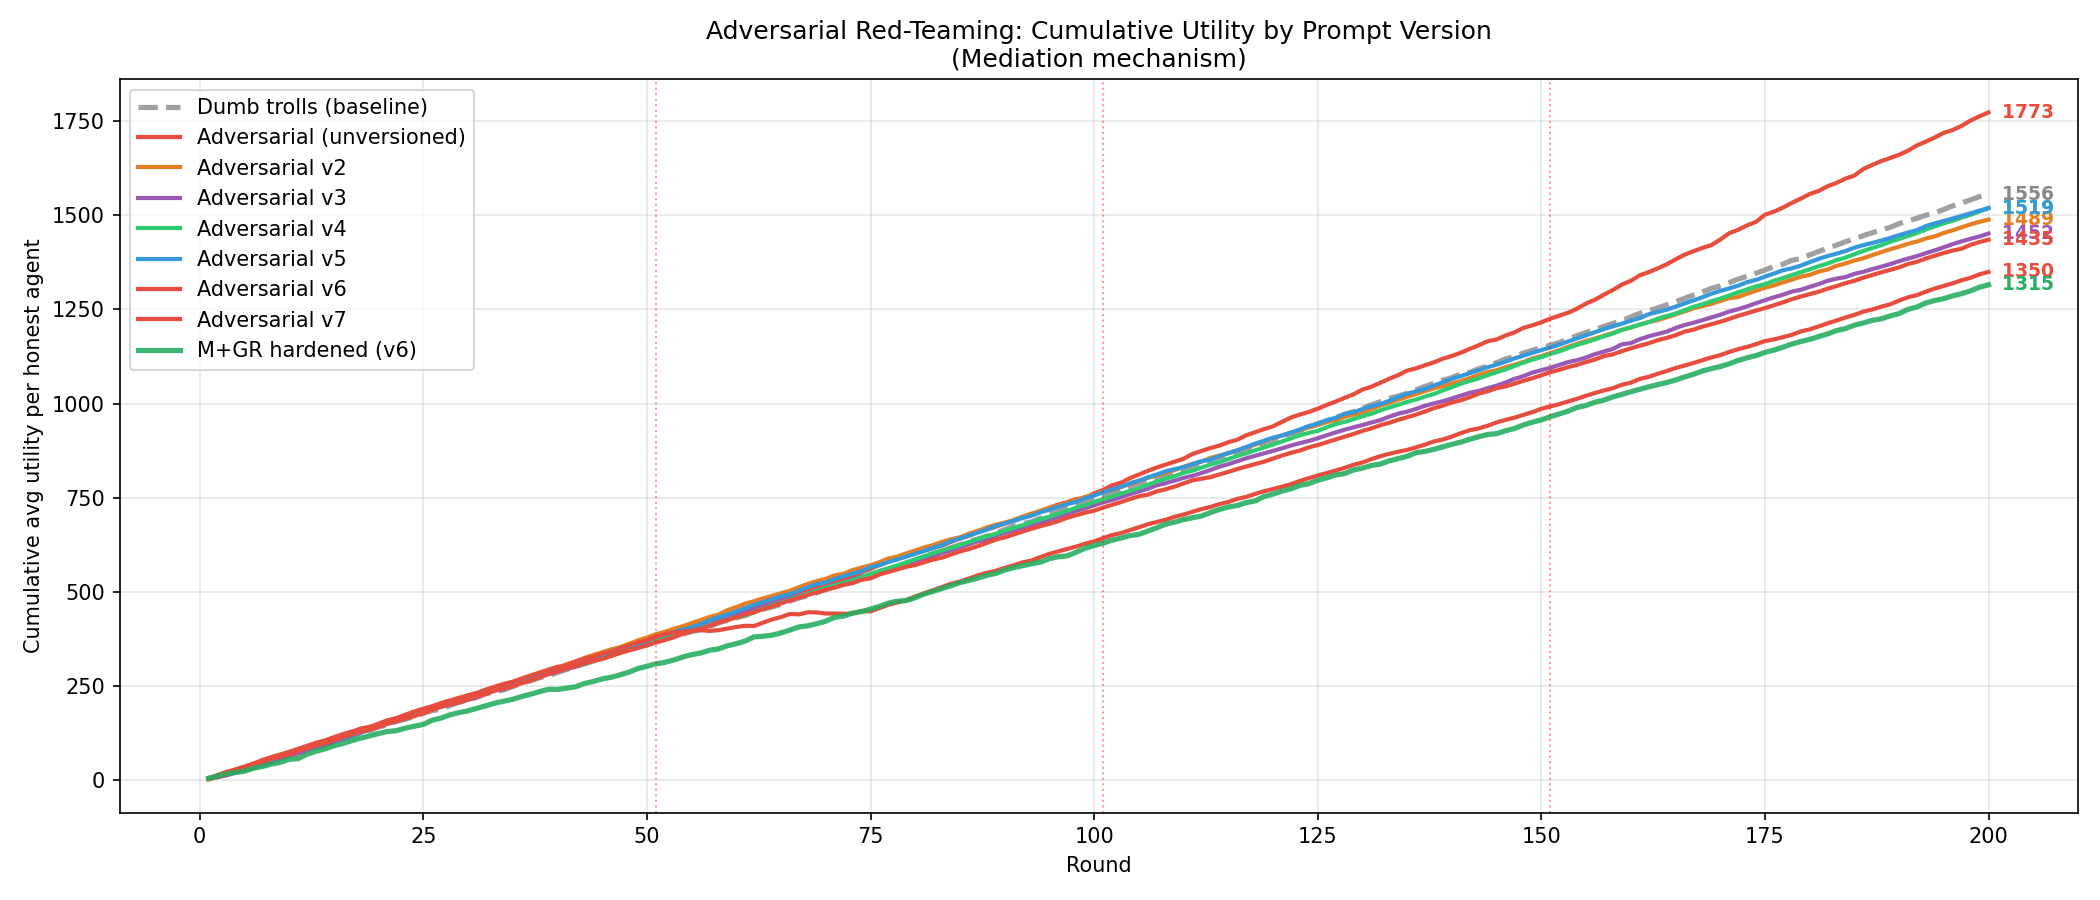
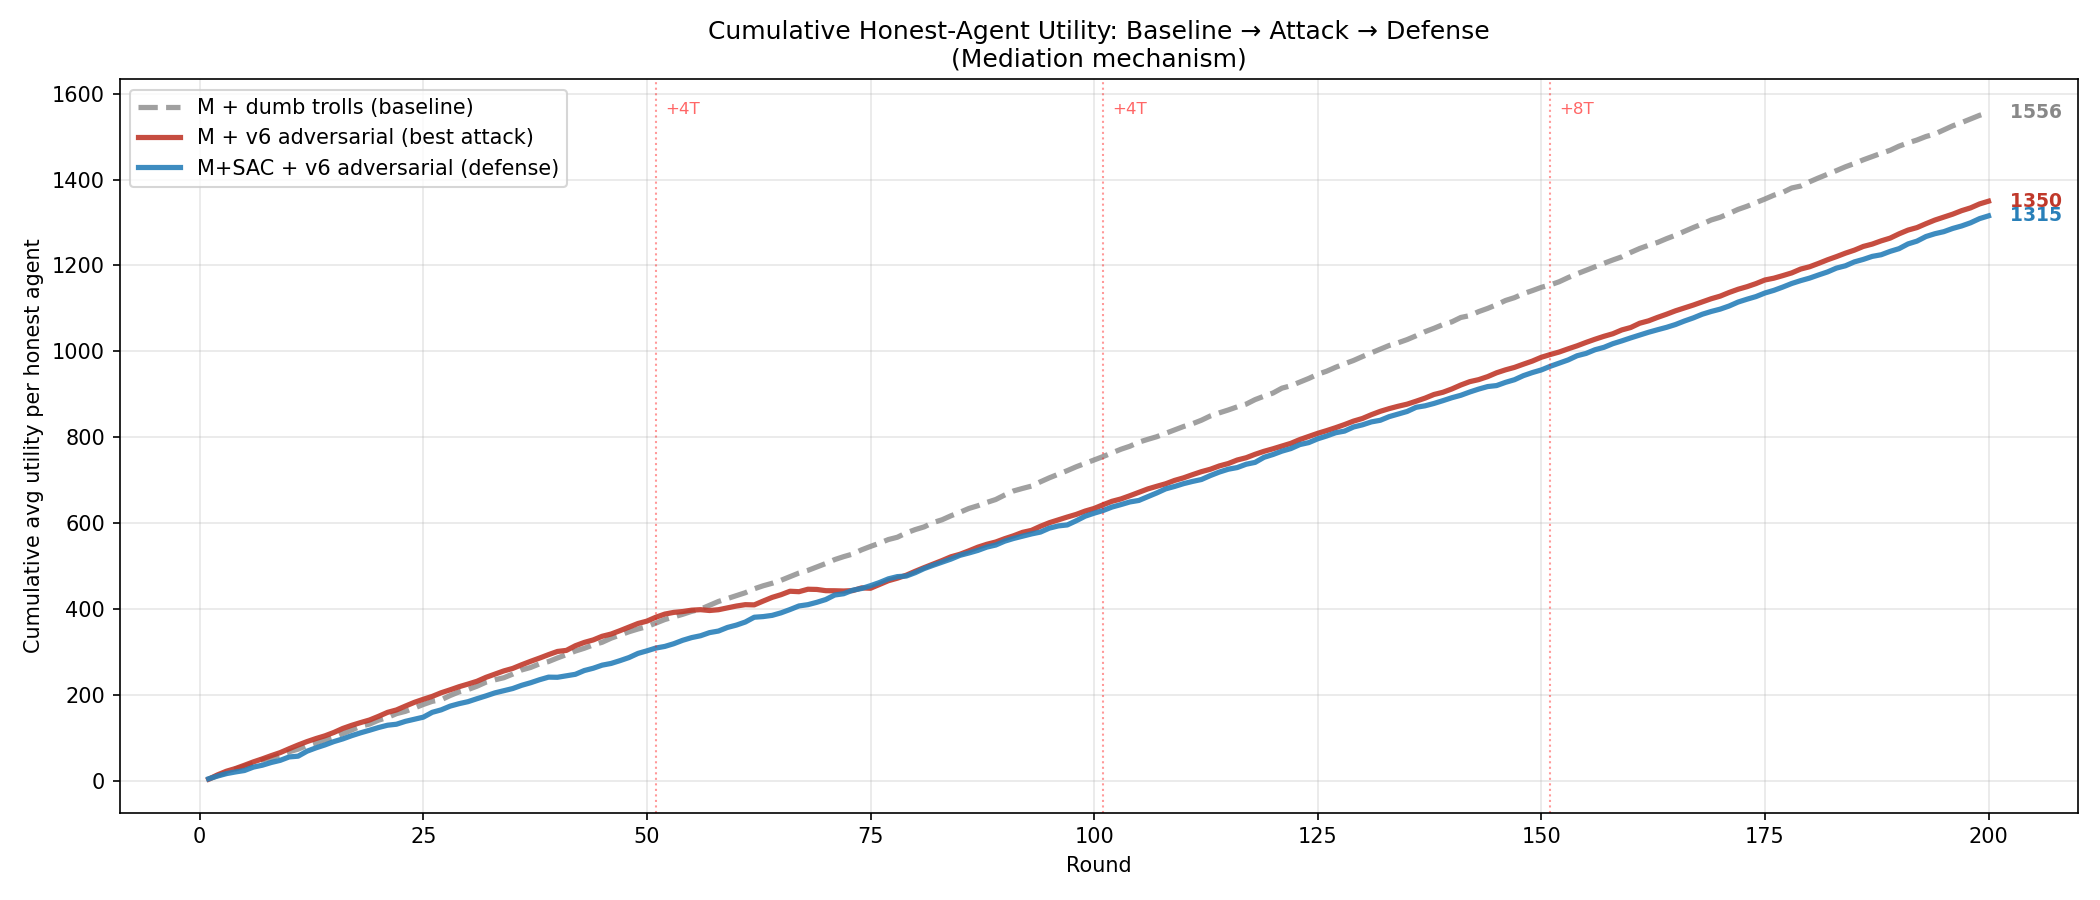
Simplify adversarial plots to 3-line story: baseline → attack → defense
Drop v1-v5 lines (cluttered, v1 was broken, v2-v5 clustered together).
Show only dumb trolls (grey dashed), v6 (red), and M+SAC (blue).
Revote table now shows M+v6 and M+SAC+v6 only. Plot file sizes reduced
~50% from fewer lines.

diff --git a/simulation/analysis/adversarial_plots.py b/simulation/analysis/adversarial_plots.py
@@ -1,7 +1,7 @@
 """Adversarial red-teaming comparison plots.
 
-Overlays dumb trolls (baseline) with each adversarial version (v1, v2, ...)
-on the same chart so you can see how each prompt iteration degrades utility.
+Three-line story: dumb trolls (baseline) → v6 (best attack) → M+SAC (defense).
+Keeps revote outcomes table and mediation utilisation chart.
 """
 from __future__ import annotations
 import json
@@ -60,112 +60,81 @@ def _cumulative_trajectory(per_round: list[float]) -> list[float]:
     return cum
 
 
-def _discover_versions() -> list[str]:
-    """Find all adversarial version tags from data files (e.g. M_tprog_adv_v1_run_00.json -> 'v1')."""
-    versions = set()
-    for f in config.DATA_DIR.glob("M_tprog_adv_*_run_*.json"):
-        name = f.stem
-        parts = name.split("_tprog_adv_")[1]
-        version = parts.split("_run_")[0]
-        versions.add(version)
-    # Also check for legacy _tprog_smart files (pre-versioning)
-    if list(config.DATA_DIR.glob("M_tprog_smart_run_*.json")):
-        versions.add("smart")
-    return sorted(versions)
+def _smooth(data: list[float], window: int = 5) -> np.ndarray:
+    """Apply rolling average, preserving edges."""
+    if len(data) < window:
+        return np.array(data)
+    smoothed = np.convolve(data, np.ones(window) / window, mode="same")
+    for i in range(min(2, len(data))):
+        smoothed[i] = data[i]
+    for i in range(1, min(3, len(data))):
+        smoothed[-i] = data[-i]
+    return smoothed
+
+
+def _add_injection_markers(ax, y_pos: float | None = None):
+    """Add troll injection vertical lines and labels."""
+    for inject_round, label in [(51, "+4 trolls"), (101, "+4 trolls"), (151, "+8 trolls")]:
+        ax.axvline(inject_round, color="red", linestyle=":", alpha=0.4, linewidth=1)
+    if y_pos is None:
+        y_pos = ax.get_ylim()[1] * 0.95
+    ax.text(52, y_pos, "+4T", fontsize=8, color="red", alpha=0.6)
+    ax.text(102, y_pos, "+4T", fontsize=8, color="red", alpha=0.6)
+    ax.text(152, y_pos, "+8T", fontsize=8, color="red", alpha=0.6)
+
+
+# --- Colors for the 3-line story ---
+CLR_DUMB = "#888888"
+CLR_V6 = "#c0392b"
+CLR_SAC = "#2980b9"
 
 
 def plot_adversarial_comparison(save: bool = True) -> None:
-    """Generate comparison plots: dumb trolls vs each adversarial version."""
+    """Generate comparison plots: dumb trolls vs v6 vs M+SAC."""
     out_dir = _get_out_dir()
-    versions = _discover_versions()
 
-    if not versions:
-        print("No adversarial run data found. Run with --smart-trolls --adv-version v1 first.")
+    # Load the three datasets
+    dumb_runs = _load_runs("M_tprog_run_*.json")
+    v6_runs = _load_runs("M_tprog_adv_v6_run_*.json")
+    sac_runs = _load_runs("RM_tprog_adv_v6_run_*.json")
+
+    dumb_pr = _utility_trajectory(dumb_runs)
+    v6_pr = _utility_trajectory(v6_runs)
+    sac_pr = _utility_trajectory(sac_runs)
+
+    if not dumb_pr and not v6_pr:
+        print("No adversarial run data found.")
         return
 
-    print(f"Found adversarial versions: {versions}")
-
-    # --- Colors ---
-    base_color = "#888888"
-    defense_color = "#27ae60"
-    version_colors = {
-        "smart": "#e74c3c",
-        "v1": "#e74c3c",
-        "v2": "#e67e22",
-        "v3": "#9b59b6",
-        "v4": "#2ecc71",
-        "v5": "#3498db",
-    }
-
-    # --- Load baseline (dumb trolls) ---
-    dumb_runs = _load_runs("M_tprog_run_*.json")
-    dumb_per_round = _utility_trajectory(dumb_runs)
-    dumb_cum = _cumulative_trajectory(dumb_per_round)
-
-    # --- Load hardened defense (RM) under v6 ---
-    rm_runs = _load_runs("RM_tprog_adv_v6_run_*.json")
-    rm_per_round = _utility_trajectory(rm_runs)
-    rm_cum = _cumulative_trajectory(rm_per_round)
-
-    # --- Load each adversarial version ---
-    adv_data = {}
-    for v in versions:
-        if v == "smart":
-            runs = _load_runs("M_tprog_smart_run_*.json")
-        else:
-            runs = _load_runs(f"M_tprog_adv_{v}_run_*.json")
-        if runs:
-            per_round = _utility_trajectory(runs)
-            adv_data[v] = {
-                "per_round": per_round,
-                "cumulative": _cumulative_trajectory(per_round),
-                "runs": runs,
-            }
+    print(f"Loaded: dumb={len(dumb_runs)} runs, v6={len(v6_runs)} runs, M+SAC={len(sac_runs)} runs")
 
     # ============================================================
-    # Plot 1: Per-round utility (smoothed) — all versions overlaid
+    # Plot 1: Per-round utility (smoothed) — 3 lines
     # ============================================================
     fig, ax = plt.subplots(figsize=(14, 6))
 
-    if dumb_per_round:
-        rounds = list(range(1, len(dumb_per_round) + 1))
-        smoothed = np.convolve(dumb_per_round, np.ones(5) / 5, mode="same")
-        smoothed[0], smoothed[1] = dumb_per_round[0], dumb_per_round[1]
-        smoothed[-1], smoothed[-2] = dumb_per_round[-1], dumb_per_round[-2]
-        ax.plot(rounds, smoothed, color=base_color, linewidth=2.5, label="Dumb trolls (baseline)",
-                linestyle="--", alpha=0.8)
+    if dumb_pr:
+        rounds = list(range(1, len(dumb_pr) + 1))
+        ax.plot(rounds, _smooth(dumb_pr), color=CLR_DUMB, linewidth=2.5,
+                label="M + dumb trolls (baseline)", linestyle="--", alpha=0.8)
 
-    for v, data in adv_data.items():
-        color = version_colors.get(v, "#e74c3c")
-        label = f"Adversarial {v}" if v != "smart" else "Adversarial (unversioned)"
-        per_round = data["per_round"]
-        rounds = list(range(1, len(per_round) + 1))
-        smoothed = np.convolve(per_round, np.ones(5) / 5, mode="same")
-        smoothed[0], smoothed[1] = per_round[0], per_round[1]
-        smoothed[-1], smoothed[-2] = per_round[-1], per_round[-2]
-        ax.plot(rounds, smoothed, color=color, linewidth=2.0, label=label)
+    if v6_pr:
+        rounds = list(range(1, len(v6_pr) + 1))
+        ax.plot(rounds, _smooth(v6_pr), color=CLR_V6, linewidth=2.5,
+                label="M + v6 adversarial (best attack)")
 
-    if rm_per_round:
-        rounds = list(range(1, len(rm_per_round) + 1))
-        smoothed = np.convolve(rm_per_round, np.ones(5) / 5, mode="same")
-        smoothed[0], smoothed[1] = rm_per_round[0], rm_per_round[1]
-        smoothed[-1], smoothed[-2] = rm_per_round[-1], rm_per_round[-2]
-        ax.plot(rounds, smoothed, color=defense_color, linewidth=2.5, label="M+GR hardened (v6)",
-                linestyle="-", alpha=0.9)
+    if sac_pr:
+        rounds = list(range(1, len(sac_pr) + 1))
+        ax.plot(rounds, _smooth(sac_pr), color=CLR_SAC, linewidth=2.5,
+                label="M+SAC + v6 adversarial (defense)")
 
     ax.axhline(0, color="black", linestyle="-", linewidth=0.5, alpha=0.4)
-
-    # Injection markers
-    for inject_round in [51, 101, 151]:
-        ax.axvline(inject_round, color="red", linestyle=":", alpha=0.4, linewidth=1)
-    ax.text(51, ax.get_ylim()[1] * 0.95, "+4 trolls", fontsize=8, color="red", alpha=0.6)
-    ax.text(101, ax.get_ylim()[1] * 0.95, "+4 trolls", fontsize=8, color="red", alpha=0.6)
-    ax.text(151, ax.get_ylim()[1] * 0.95, "+8 trolls", fontsize=8, color="red", alpha=0.6)
+    _add_injection_markers(ax)
 
     ax.set_xlabel("Round")
     ax.set_ylabel("Avg utility per honest agent")
-    ax.set_title("Adversarial Red-Teaming: Utility Degradation by Prompt Version\n(Mediation mechanism, 5-round rolling average)")
-    ax.legend(loc="lower left")
+    ax.set_title("Adversarial Red-Teaming: Baseline → Attack → Defense\n(Mediation mechanism, 5-round rolling average)")
+    ax.legend(loc="lower left", fontsize=10)
     ax.grid(True, alpha=0.3)
     plt.tight_layout()
 
@@ -176,40 +145,29 @@ def plot_adversarial_comparison(save: bool = True) -> None:
     plt.close(fig)
 
     # ============================================================
-    # Plot 2: Cumulative utility — all versions overlaid
+    # Plot 2: Cumulative utility — 3 lines
     # ============================================================
     fig, ax = plt.subplots(figsize=(14, 6))
 
-    if dumb_cum:
-        rounds = list(range(1, len(dumb_cum) + 1))
-        ax.plot(rounds, dumb_cum, color=base_color, linewidth=2.5, label="Dumb trolls (baseline)",
-                linestyle="--", alpha=0.8)
-        ax.text(len(dumb_cum), dumb_cum[-1], f"  {dumb_cum[-1]:.0f}",
-                fontsize=9, fontweight="bold", color=base_color, va="center")
-
-    for v, data in adv_data.items():
-        color = version_colors.get(v, "#e74c3c")
-        label = f"Adversarial {v}" if v != "smart" else "Adversarial (unversioned)"
-        cum = data["cumulative"]
+    for label, pr, color, ls in [
+        ("M + dumb trolls (baseline)", dumb_pr, CLR_DUMB, "--"),
+        ("M + v6 adversarial (best attack)", v6_pr, CLR_V6, "-"),
+        ("M+SAC + v6 adversarial (defense)", sac_pr, CLR_SAC, "-"),
+    ]:
+        if not pr:
+            continue
+        cum = _cumulative_trajectory(pr)
         rounds = list(range(1, len(cum) + 1))
-        ax.plot(rounds, cum, color=color, linewidth=2.0, label=label)
-        ax.text(len(cum), cum[-1], f"  {cum[-1]:.0f}",
+        ax.plot(rounds, cum, color=color, linewidth=2.5, label=label, linestyle=ls,
+                alpha=0.9 if ls == "-" else 0.8)
+        ax.text(len(cum) + 1, cum[-1], f"  {cum[-1]:.0f}",
                 fontsize=9, fontweight="bold", color=color, va="center")
 
-    if rm_cum:
-        rounds = list(range(1, len(rm_cum) + 1))
-        ax.plot(rounds, rm_cum, color=defense_color, linewidth=2.5, label="M+GR hardened (v6)",
-                alpha=0.9)
-        ax.text(len(rm_cum), rm_cum[-1], f"  {rm_cum[-1]:.0f}",
-                fontsize=9, fontweight="bold", color=defense_color, va="center")
-
-    for inject_round in [51, 101, 151]:
-        ax.axvline(inject_round, color="red", linestyle=":", alpha=0.4, linewidth=1)
-
+    _add_injection_markers(ax)
     ax.set_xlabel("Round")
     ax.set_ylabel("Cumulative avg utility per honest agent")
-    ax.set_title("Adversarial Red-Teaming: Cumulative Utility by Prompt Version\n(Mediation mechanism)")
-    ax.legend(loc="upper left")
+    ax.set_title("Cumulative Honest-Agent Utility: Baseline → Attack → Defense\n(Mediation mechanism)")
+    ax.legend(loc="upper left", fontsize=10)
     ax.grid(True, alpha=0.3)
     plt.tight_layout()
 
@@ -226,14 +184,14 @@ def plot_adversarial_comparison(save: bool = True) -> None:
     ax.axis("off")
 
     table_data = []
-    headers = ["Version", "Round", "Winner Designer", "action_both", "action_one", "Trolls/Total"]
+    headers = ["Condition", "Round", "Winner Designer", "action_both", "action_one", "Trolls/Total"]
 
-    for v, data in adv_data.items():
-        for run in data["runs"]:
+    for tag, runs in [("M+v6", v6_runs), ("M+SAC+v6", sac_runs)]:
+        for run in runs:
             revotes = run.get("session_log", {}).get("revotes", [])
             for rv in revotes:
                 table_data.append([
-                    v,
+                    tag,
                     str(rv["round"]),
                     str(rv["designer_id"]),
                     rv["action_both"],
@@ -241,36 +199,21 @@ def plot_adversarial_comparison(save: bool = True) -> None:
                     f"{rv['n_trolls']}/{rv['n_agents']}",
                 ])
 
-    for run in rm_runs:
-        revotes = run.get("session_log", {}).get("revotes", [])
-        for rv in revotes:
-            table_data.append([
-                "RM+v6",
-                str(rv["round"]),
-                str(rv["designer_id"]),
-                rv["action_both"],
-                rv["action_one"],
-                f"{rv['n_trolls']}/{rv['n_agents']}",
-            ])
-
     if table_data:
         table = ax.table(cellText=table_data, colLabels=headers, loc="center",
                          cellLoc="center")
         table.auto_set_font_size(False)
         table.set_fontsize(9)
         table.scale(1, 1.4)
-
         for i, row in enumerate(table_data):
             if row[4] != "cancel":
                 for j in range(len(headers)):
                     table[i + 1, j].set_facecolor("#ffcccc")
-
         ax.set_title("Mediation Re-Vote Outcomes (red = exploitable design won)", fontweight="bold", pad=20)
     else:
         ax.text(0.5, 0.5, "No re-vote data found", ha="center", va="center", fontsize=14)
 
     plt.tight_layout()
-
     if save:
         path = out_dir / "adversarial_revote_outcomes.png"
         fig.savefig(path, dpi=150, bbox_inches="tight")
@@ -278,7 +221,7 @@ def plot_adversarial_comparison(save: bool = True) -> None:
     plt.close(fig)
 
     # ============================================================
-    # Plot 5: Mediation utilisation — fraction of trades mediated
+    # Plot 4: Mediation utilisation — 3 lines
     # ============================================================
     fig, ax = plt.subplots(figsize=(14, 6))
 
@@ -294,62 +237,33 @@ def plot_adversarial_comparison(save: bool = True) -> None:
                 if r >= len(run["rounds"]):
                     continue
                 rnd = run["rounds"][r]
-                troll_ids = _get_troll_ids(run)
-                # Count non-troll trades only
-                trades = rnd.get("trades", [])
-                nt_trades = [t for t in trades
-                             if str(t.get("proposer")) not in troll_ids
-                             and str(t.get("target")) not in troll_ids]
                 mediated = rnd.get("mediated_trade_count", 0)
-                total_vals.append(len(nt_trades))
+                total = rnd.get("trade_count", 0)
                 mediated_vals.append(mediated)
+                total_vals.append(total)
             total = np.mean(total_vals) if total_vals else 0
             med = np.mean(mediated_vals) if mediated_vals else 0
             fractions.append(med / total if total > 0 else 0.0)
         return fractions
 
-    if dumb_runs:
-        fracs = _mediation_fraction(dumb_runs)
+    for label, runs, color, ls in [
+        ("M + dumb trolls", dumb_runs, CLR_DUMB, "--"),
+        ("M + v6 adversarial", v6_runs, CLR_V6, "-"),
+        ("M+SAC + v6 adversarial", sac_runs, CLR_SAC, "-"),
+    ]:
+        fracs = _mediation_fraction(runs)
+        if not fracs:
+            continue
         rounds = list(range(1, len(fracs) + 1))
-        smoothed = np.convolve(fracs, np.ones(5) / 5, mode="same")
-        smoothed[0], smoothed[1] = fracs[0], fracs[1]
-        if len(fracs) > 1:
-            smoothed[-1], smoothed[-2] = fracs[-1], fracs[-2]
-        ax.plot(rounds, smoothed, color=base_color, linewidth=2.5,
-                label="Dumb trolls (baseline)", linestyle="--", alpha=0.8)
+        ax.plot(rounds, _smooth(fracs), color=color, linewidth=2.5,
+                label=label, linestyle=ls, alpha=0.9 if ls == "-" else 0.8)
 
-    for v, data in adv_data.items():
-        color = version_colors.get(v, "#e74c3c")
-        label = f"Adversarial {v}" if v != "smart" else "Adversarial (unversioned)"
-        fracs = _mediation_fraction(data["runs"])
-        rounds = list(range(1, len(fracs) + 1))
-        smoothed = np.convolve(fracs, np.ones(5) / 5, mode="same")
-        smoothed[0], smoothed[1] = fracs[0], fracs[1]
-        if len(fracs) > 1:
-            smoothed[-1], smoothed[-2] = fracs[-1], fracs[-2]
-        ax.plot(rounds, smoothed, color=color, linewidth=2.0, label=label)
-
-    if rm_runs:
-        fracs = _mediation_fraction(rm_runs)
-        rounds = list(range(1, len(fracs) + 1))
-        smoothed = np.convolve(fracs, np.ones(5) / 5, mode="same")
-        smoothed[0], smoothed[1] = fracs[0], fracs[1]
-        if len(fracs) > 1:
-            smoothed[-1], smoothed[-2] = fracs[-1], fracs[-2]
-        ax.plot(rounds, smoothed, color=defense_color, linewidth=2.5,
-                label="M+GR hardened (v6)", alpha=0.9)
-
-    for inject_round in [51, 101, 151]:
-        ax.axvline(inject_round, color="red", linestyle=":", alpha=0.4, linewidth=1)
-    ax.text(51, ax.get_ylim()[1] * 0.95, "+4 trolls", fontsize=8, color="red", alpha=0.6)
-    ax.text(101, ax.get_ylim()[1] * 0.95, "+4 trolls", fontsize=8, color="red", alpha=0.6)
-    ax.text(151, ax.get_ylim()[1] * 0.95, "+8 trolls", fontsize=8, color="red", alpha=0.6)
-
+    _add_injection_markers(ax, y_pos=1.0)
     ax.set_xlabel("Round")
     ax.set_ylabel("Fraction of trades mediated")
     ax.set_ylim(0, 1.05)
-    ax.set_title("Mediation Utilisation: Dumb Trolls vs Adversarial Versions\n(5-round rolling average, non-troll trades only)")
-    ax.legend(loc="lower left")
+    ax.set_title("Mediation Utilisation: Baseline → Attack → Defense\n(5-round rolling average)")
+    ax.legend(loc="lower left", fontsize=10)
     ax.grid(True, alpha=0.3)
     plt.tight_layout()
 
